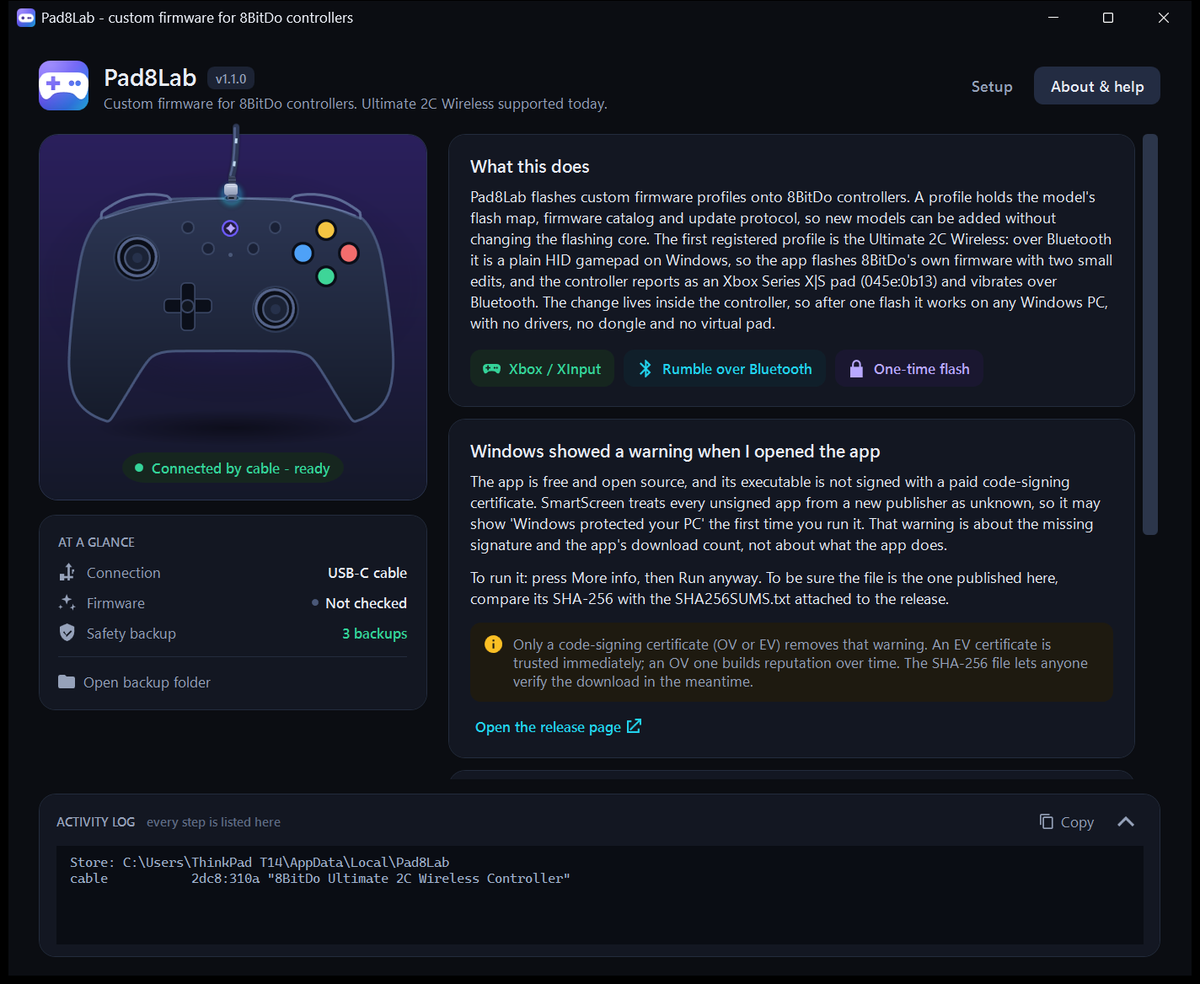
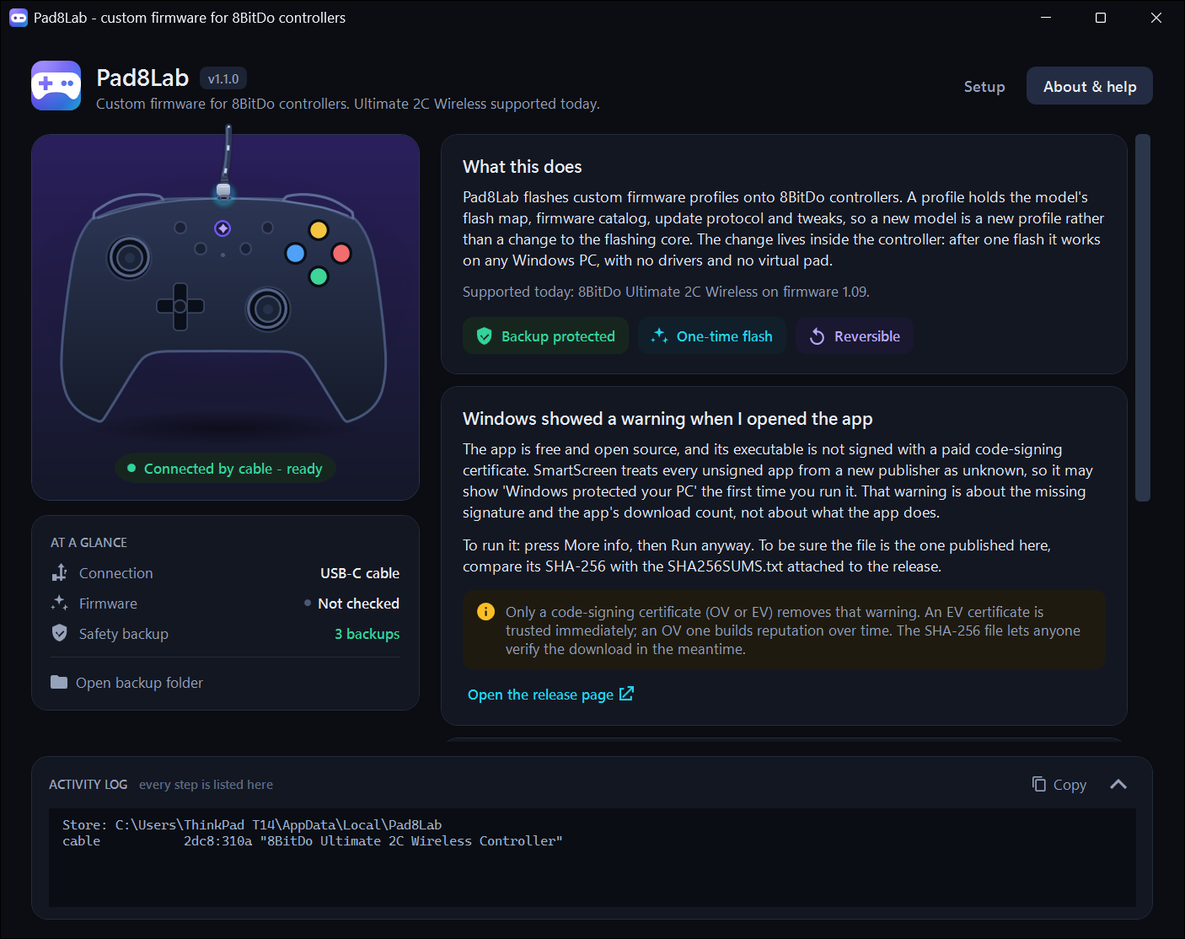
Make the app flow follow the registered profile

diff --git a/src/Pad8Lab/MainWindow.xaml b/src/Pad8Lab/MainWindow.xaml
@@ -44,8 +44,9 @@
                         <TextBlock x:Name="VersionText" Style="{StaticResource Caption}" Foreground="{StaticResource MutedBrush}" Text="1.0.1"/>
                     </Border>
                 </StackPanel>
-                <TextBlock Style="{StaticResource Muted}" Margin="0,1,0,0"
-                           Text="Custom firmware for 8BitDo controllers. Ultimate 2C Wireless supported today."/>
+                <TextBlock x:Name="SubtitleText" Style="{StaticResource Muted}" Margin="0,1,0,0"
+                           TextTrimming="CharacterEllipsis"
+                           Text="Custom firmware for 8BitDo controllers."/>
             </StackPanel>
 
             <StackPanel Grid.Column="2" Orientation="Horizontal" VerticalAlignment="Center">
@@ -380,7 +381,7 @@
                                     <StackPanel Grid.Column="1" Margin="12,1,12,0">
                                         <TextBlock Text="Connect the controller by USB-C" Style="{StaticResource H2}"/>
                                         <TextBlock Style="{StaticResource Muted}" Margin="0,3,0,0"
-                                                   Text="Flashing only works over the cable. Bluetooth and the 2.4 GHz dongle cannot flash."/>
+                                                   Text="Flashing only works over the cable. Wireless modes cannot flash."/>
                                     </StackPanel>
                                     <StackPanel Grid.Column="2" Orientation="Horizontal" VerticalAlignment="Center">
                                         <Border x:Name="ConnectionChip" Background="#1A2130" CornerRadius="8" Padding="9,4">
@@ -447,9 +448,9 @@
                                                    HorizontalAlignment="Center" VerticalAlignment="Center"/>
                                     </Border>
                                     <StackPanel Grid.Column="1" Margin="12,1,14,0">
-                                        <TextBlock Text="Install the Bluetooth tweaks" Style="{StaticResource H2}"/>
-                                        <TextBlock Style="{StaticResource Muted}" Margin="0,3,0,0"
-                                                   Text="Adds native Xbox identity and rumble over Bluetooth. Writes 819 bytes, then reads them back to verify."/>
+                                        <TextBlock Text="Install the tweaks" Style="{StaticResource H2}"/>
+                                        <TextBlock x:Name="InstallHelpText" Style="{StaticResource Muted}" Margin="0,3,0,0"
+                                                   Text="Writes only the firmware regions the tweaks change, then reads them back to verify."/>
                                     </StackPanel>
                                     <StackPanel Grid.Column="2" VerticalAlignment="Center">
                                         <Button x:Name="InstallButton" AutomationProperties.AutomationId="InstallButton" Style="{StaticResource PrimaryButton}" Width="186"
@@ -491,9 +492,9 @@
                                                    HorizontalAlignment="Center" VerticalAlignment="Center"/>
                                     </Border>
                                     <StackPanel Grid.Column="1" Margin="12,1,0,0">
-                                        <TextBlock Text="Pair it again over Bluetooth" Style="{StaticResource H2}"/>
-                                        <TextBlock Style="{StaticResource Muted}" Margin="0,3,0,0"
-                                                   Text="Unplug the cable. In Windows Settings, remove the controller and pair it again so Windows reads its new Xbox identity. Now games see a real Xbox pad and can make it vibrate."/>
+                                        <TextBlock Text="Reconnect the controller" Style="{StaticResource H2}"/>
+                                        <TextBlock x:Name="ReconnectHelpText" Style="{StaticResource Muted}" Margin="0,3,0,0"
+                                                   Text="Unplug the cable and connect the controller the way you normally use it. If Windows shows it as a new device, remove it in Settings and pair it again."/>
                                     </StackPanel>
                                 </Grid>
                             </Border>
@@ -512,7 +513,8 @@
                                     <StackPanel Grid.Column="1" Margin="11,0,10,0" VerticalAlignment="Center">
                                         <TextBlock Text="Changed your mind?" Style="{StaticResource Body}" FontSize="12.5" FontWeight="SemiBold"/>
                                         <TextBlock Style="{StaticResource Muted}" Margin="0,1,0,0" FontSize="12"
-                                                   Text="Restore puts back the backup that still holds the original firmware 1.09."/>
+                                                   x:Name="RestoreHelpText"
+                                                   Text="Restore puts back the backup that still holds the original firmware."/>
                                     </StackPanel>
                                     <Button x:Name="RestoreButton" AutomationProperties.AutomationId="RestoreButton" Grid.Column="2" Style="{StaticResource SecondaryButton}"
                                             Click="Restore_Click" VerticalAlignment="Center" Content="Restore"/>
@@ -534,30 +536,33 @@
                                 <StackPanel>
                                     <TextBlock Text="What this does" Style="{StaticResource H2}"/>
                                     <TextBlock Style="{StaticResource Body}" Margin="0,7,0,0"
-                                               Text="Pad8Lab flashes custom firmware profiles onto 8BitDo controllers. A profile holds the model's flash map, firmware catalog and update protocol, so new models can be added without changing the flashing core. The first registered profile is the Ultimate 2C Wireless: over Bluetooth it is a plain HID gamepad on Windows, so the app flashes 8BitDo's own firmware with two small edits, and the controller reports as an Xbox Series X|S pad (045e:0b13) and vibrates over Bluetooth. The change lives inside the controller, so after one flash it works on any Windows PC, with no drivers, no dongle and no virtual pad."/>
+                                               Text="Pad8Lab flashes custom firmware profiles onto 8BitDo controllers. A profile holds the model's flash map, firmware catalog, update protocol and tweaks, so a new model is a new profile rather than a change to the flashing core. The change lives inside the controller: after one flash it works on any Windows PC, with no drivers and no virtual pad."/>
+                                    <TextBlock x:Name="SupportedText" Style="{StaticResource Muted}" Margin="0,9,0,0"
+                                               TextWrapping="Wrap"
+                                               Text="Supported today:"/>
 
                                     <StackPanel Orientation="Horizontal" Margin="0,14,0,0">
                                         <Border Background="#16261F" CornerRadius="9" Padding="11,8" Margin="0,0,8,0">
                                             <StackPanel Orientation="Horizontal">
-                                                <Path Data="{StaticResource IconGamepad}" Width="15" Height="15" Stretch="Uniform"
+                                                <Path Data="{StaticResource IconShield}" Width="15" Height="15" Stretch="Uniform"
                                                       Fill="{StaticResource SuccessBrush}" VerticalAlignment="Center"/>
-                                                <TextBlock Text="Xbox / XInput" Margin="7,0,0,0" FontSize="12"
+                                                <TextBlock Text="Backup protected" Margin="7,0,0,0" FontSize="12"
                                                            Foreground="{StaticResource SuccessBrush}" FontWeight="SemiBold"/>
                                             </StackPanel>
                                         </Border>
                                         <Border Background="#101F2A" CornerRadius="9" Padding="11,8" Margin="0,0,8,0">
                                             <StackPanel Orientation="Horizontal">
-                                                <Path Data="{StaticResource IconBluetooth}" Width="15" Height="15" Stretch="Uniform"
+                                                <Path Data="{StaticResource IconSpark}" Width="15" Height="15" Stretch="Uniform"
                                                       Fill="{StaticResource Accent2Brush}" VerticalAlignment="Center"/>
-                                                <TextBlock Text="Rumble over Bluetooth" Margin="7,0,0,0" FontSize="12"
+                                                <TextBlock Text="One-time flash" Margin="7,0,0,0" FontSize="12"
                                                            Foreground="{StaticResource Accent2Brush}" FontWeight="SemiBold"/>
                                             </StackPanel>
                                         </Border>
                                         <Border Background="#1A1730" CornerRadius="9" Padding="11,8">
                                             <StackPanel Orientation="Horizontal">
-                                                <Path Data="{StaticResource IconLock}" Width="15" Height="15" Stretch="Uniform"
+                                                <Path Data="{StaticResource IconUndo}" Width="15" Height="15" Stretch="Uniform"
                                                       Fill="#B8A8FF" VerticalAlignment="Center"/>
-                                                <TextBlock Text="One-time flash" Margin="7,0,0,0" FontSize="12"
+                                                <TextBlock Text="Reversible" Margin="7,0,0,0" FontSize="12"
                                                            Foreground="#B8A8FF" FontWeight="SemiBold"/>
                                             </StackPanel>
                                         </Border>

diff --git a/src/Pad8Lab/Theme.xaml b/src/Pad8Lab/Theme.xaml
@@ -57,7 +57,6 @@
     <Geometry x:Key="IconCheck">M9.5 16.2 5.3 12l-1.4 1.4 5.6 5.6L20.1 8.4 18.7 7z</Geometry>
     <Geometry x:Key="IconWarning">M1 21h22L12 2 1 21zm12-3h-2v-2h2v2zm0-4h-2v-4h2v4z</Geometry>
     <Geometry x:Key="IconInfo">M12 2a10 10 0 1 0 0 20 10 10 0 0 0 0-20zm1 15h-2v-6h2v6zm0-8h-2V7h2v2z</Geometry>
-    <Geometry x:Key="IconBluetooth">M17.7 7.7 12 2h-1v7.6L6.4 5 5 6.4 10.6 12 5 17.6 6.4 19 11 14.4V22h1l5.7-5.7-4.3-4.3 4.3-4.3zM13 5.8l1.9 1.9L13 9.6V5.8zm1.9 10.5L13 18.2v-3.8l1.9 1.9z</Geometry>
     <Geometry x:Key="IconBackup">M11 3h2v10.2l3.6-3.6 1.4 1.4-6 6-6-6 1.4-1.4L11 13.2V3zM4 19h16v2H4z</Geometry>
     <Geometry x:Key="IconSpark">M12 2l1.6 4.4L18 8l-4.4 1.6L12 14l-1.6-4.4L6 8l4.4-1.6L12 2zm7 11 .9 2.6 2.6.9-2.6.9L19 21l-.9-2.6-2.6-.9 2.6-.9L19 13zM5 14l.7 2 2 .7-2 .7L5 19.5l-.7-2.1-2-.7 2-.7L5 14z</Geometry>
     <Geometry x:Key="IconUndo">M12 5V1L7 6l5 5V7a6 6 0 1 1-6 6H4a8 8 0 1 0 8-8z</Geometry>
@@ -68,8 +67,6 @@
     <Geometry x:Key="IconFolder">M10 4H4a2 2 0 0 0-2 2v12a2 2 0 0 0 2 2h16a2 2 0 0 0 2-2V8a2 2 0 0 0-2-2h-8l-2-2z</Geometry>
     <Geometry x:Key="IconChevron">M7 9l5 5 5-5 1.4 1.4L12 16.8 5.6 10.4z</Geometry>
     <Geometry x:Key="IconGamepad">F0 M6.6,7.2 L17.4,7.2 C19.56,7.2 21,8.76 21.12,10.68 C21.24,12.84 20.76,15 19.8,16.32 C19.08,17.28 17.88,17.28 17.04,16.44 L15.84,15.24 C14.76,14.16 9.24,14.16 8.16,15.24 L6.96,16.44 C6.12,17.28 4.92,17.28 4.2,16.32 C3.24,15 2.76,12.84 2.88,10.68 C3,8.76 4.44,7.2 6.6,7.2 Z M7.44,8.64 L8.88,8.64 L8.88,10.44 L10.68,10.44 L10.68,11.88 L8.88,11.88 L8.88,13.68 L7.44,13.68 L7.44,11.88 L5.64,11.88 L5.64,10.44 L7.44,10.44 Z M13.85,11.16 A1.03,1.03 0 1 0 15.91,11.16 A1.03,1.03 0 1 0 13.85,11.16 Z M16.25,11.16 A1.03,1.03 0 1 0 18.31,11.16 A1.03,1.03 0 1 0 16.25,11.16 Z</Geometry>
-    <Geometry x:Key="IconLock">M12 2a5 5 0 0 0-5 5v3H5v12h14V10h-2V7a5 5 0 0 0-5-5zm0 2a3 3 0 0 1 3 3v3H9V7a3 3 0 0 1 3-3z</Geometry>
-    <Geometry x:Key="IconDot">M12 8a4 4 0 1 0 0 8 4 4 0 0 0 0-8z</Geometry>
 
     <!-- text -->
     <Style x:Key="H1" TargetType="TextBlock">

diff --git a/src/Pad8Lab/MainWindow.xaml.cs b/src/Pad8Lab/MainWindow.xaml.cs
@@ -30,6 +30,8 @@ public partial class MainWindow : Window
     private IReadOnlyList<string> _modes = Array.Empty<string>();
     private string _deviceSignature = string.Empty;
     private bool _planChanges;
+    private int _planDiffBytes;
+    private ControllerProfile _profile = ProfileRegistry.Default.Profiles[0];
 
     private enum StatusKind
     {
@@ -44,6 +46,13 @@ public partial class MainWindow : Window
     {
         InitializeComponent();
         VersionText.Text = "v" + (Assembly.GetExecutingAssembly().GetName().Version?.ToString(3) ?? "1.0.0");
+
+        // the header and the About tab list whatever the registry supports today
+        var profiles = ProfileRegistry.Default.Profiles;
+        SubtitleText.Text = $"Custom firmware for 8BitDo controllers. {Plan.Listed(profiles.Select(p => p.ShortName))} supported today.";
+        SupportedText.Text = "Supported today: " + string.Join("; ",
+            profiles.Select(p => $"{p.Name} on firmware {p.SupportedVersions}."));
+        ApplyProfileText(_profile);
 
         // keeps the window inside the screen on small displays or high scaling
         var work = SystemParameters.WorkArea;
@@ -88,11 +97,7 @@ public partial class MainWindow : Window
         SetStatus("Looking for the controller...", StatusKind.Busy);
         try
         {
-            var (lines, modes) = await Task.Run(() =>
-            {
-                var found = _service.Find();
-                return (_service.DescribeDevices(), (IReadOnlyList<string>)found.Select(f => f.Mode).ToList());
-            });
+            var (found, lines) = await Task.Run(() => (_service.Find(), _service.DescribeDevices()));
 
             // only logs the device list when it changes, so repeated refreshes stay quiet
             var signature = string.Join("\n", lines);
@@ -103,8 +108,9 @@ public partial class MainWindow : Window
                     Log(line);
             }
 
-            _modes = modes;
-            ApplyDeviceState(modes);
+            _modes = found.Select(f => f.Mode).ToList();
+            UseProfile(found.Select(f => f.Profile).FirstOrDefault());
+            ApplyDeviceState(_modes);
         }
         catch (Exception ex)
         {
@@ -126,7 +132,9 @@ public partial class MainWindow : Window
         _probing = true;
         try
         {
-            var modes = await Task.Run(() => _service.Find().Select(f => f.Mode).ToList());
+            var found = await Task.Run(() => _service.Find());
+            var modes = found.Select(f => f.Mode).ToList();
+            UseProfile(found.Select(f => f.Profile).FirstOrDefault());
             if (SameModes(modes, _modes))
                 return;
 
@@ -156,6 +164,30 @@ public partial class MainWindow : Window
     private static bool SameModes(IReadOnlyList<string> a, IReadOnlyList<string> b) =>
         a.Count == b.Count && a.OrderBy(m => m).SequenceEqual(b.OrderBy(m => m));
 
+    // follows the model that is connected, or the first registered one when nothing is
+    private void UseProfile(ControllerProfile? profile)
+    {
+        profile ??= ProfileRegistry.Default.Profiles[0];
+        if (ReferenceEquals(profile, _profile))
+            return;
+        _profile = profile;
+        ApplyProfileText(profile);
+    }
+
+    // the flow names the model's own tweaks and firmware version
+    private void ApplyProfileText(ControllerProfile profile)
+    {
+        var titles = profile.SuggestedTweaks
+            .Where(key => profile.Primary.Catalog.All.ContainsKey(key))
+            .Select(key => profile.Primary.Catalog.All[key].Title)
+            .ToList();
+        InstallHelpText.Text = titles.Count == 0
+            ? "Writes only the firmware regions the tweaks change, then reads them back to verify."
+            : $"Adds {Plan.Listed(titles)}. Writes only those regions, then verifies them.";
+        RestoreHelpText.Text =
+            $"Restore puts back the backup that still holds the original firmware {profile.Primary.Version:0.00}.";
+    }
+
     // maps the device modes onto the status pill, the connection row and the buttons
     private void ApplyDeviceState(IReadOnlyList<string> modes)
     {
@@ -182,19 +214,19 @@ public partial class MainWindow : Window
         }
         else if (bluetooth)
         {
-            SetStatus("Bluetooth - connect the cable to flash", StatusKind.Info);
-            ConnectionChipText.Text = "Bluetooth";
+            SetStatus("Wireless - connect the cable to flash", StatusKind.Info);
+            ConnectionChipText.Text = "Wireless";
             ConnectionChipText.Foreground = Brush("Accent2Brush");
             ConnectionChip.Background = Solid("#11222B");
-            ConnectionText.Text = "Bluetooth";
+            ConnectionText.Text = "Wireless";
         }
         else if (dongle)
         {
-            SetStatus("Only the dongle is connected", StatusKind.Warn);
-            ConnectionChipText.Text = "Dongle only";
+            SetStatus("Only the wireless adapter is connected", StatusKind.Warn);
+            ConnectionChipText.Text = "Adapter only";
             ConnectionChipText.Foreground = Brush("WarnBrush");
             ConnectionChip.Background = Solid("#2A2113");
-            ConnectionText.Text = "2.4 GHz dongle";
+            ConnectionText.Text = "Wireless adapter";
         }
         else
         {
@@ -321,8 +353,10 @@ public partial class MainWindow : Window
     {
         var installed = !plan.BankA && plan.OtherSectors.Count == 0;
         _planChanges = !installed;
+        _planDiffBytes = plan.DiffBytes;
         Dispatcher.BeginInvoke(
-            () => SetFirmware(installed ? "Rumble + Xbox" : "Original 1.09", installed ? StatusKind.Ok : StatusKind.Muted));
+            () => SetFirmware(installed ? "Tweaked" : $"Original {_profile.Primary.Version:0.00}",
+                installed ? StatusKind.Ok : StatusKind.Muted));
     }
 
     private void SetFirmware(string text, StatusKind kind)
@@ -427,7 +461,7 @@ public partial class MainWindow : Window
             return;
 
         if (await RunAsync("backup", () => _service.Backup(Log, ShowProgress)))
-            ShowResult(true, "Backup saved. It holds your unit's bootloader check, calibration and Bluetooth keys.");
+            ShowResult(true, "Backup saved. It holds your unit's bootloader check, calibration and pairing data.");
     }
 
     private async void Check_Click(object sender, RoutedEventArgs e)
@@ -439,14 +473,14 @@ public partial class MainWindow : Window
             return;
 
         ShowResult(true, _planChanges
-            ? "The tweaks are not installed yet. Installing them changes 819 bytes of the firmware."
+            ? $"The tweaks are not installed yet. Installing them writes {Plan.Count(_planDiffBytes, "byte")} of the firmware."
             : "The tweaks are already installed. There is nothing to write.");
     }
 
     private async void Install_Click(object sender, RoutedEventArgs e)
     {
-        if (!ConfirmWindow.Ask(this, "Install the Bluetooth tweaks?",
-                "This writes 819 bytes to the controller's firmware, reads them back to verify, and restarts the controller. " +
+        if (!ConfirmWindow.Ask(this, "Install the tweaks?",
+                "This writes only the firmware regions the tweaks change, reads them back to verify and restarts the controller. " +
                 "Make sure the USB-C cable is connected and that you have a backup.",
                 "Install"))
             return;
@@ -458,16 +492,16 @@ public partial class MainWindow : Window
         if (!ok)
             return;
 
-        SetFirmware("Rumble + Xbox", StatusKind.Ok);
+        SetFirmware("Tweaked", StatusKind.Ok);
         ShowResult(true, _planChanges
-            ? "Installed and verified. Unplug the cable, then remove and pair the controller again in Windows Bluetooth settings."
+            ? "Installed and verified. Unplug the cable and reconnect the controller; if Windows shows it as a new device, remove it in Settings and pair it again."
             : "The tweaks were already installed, so nothing was written.");
     }
 
     private async void Restore_Click(object sender, RoutedEventArgs e)
     {
         if (!ConfirmWindow.Ask(this, "Restore the original firmware?",
-                "This writes the original firmware 1.09 from your backup back to the controller, verifies it and undoes the tweaks.",
+                $"This writes the original firmware {_profile.Primary.Version:0.00} from your backup back to the controller, verifies it and undoes the tweaks.",
                 "Restore"))
             return;
 
@@ -478,9 +512,9 @@ public partial class MainWindow : Window
         if (!ok)
             return;
 
-        SetFirmware("Original 1.09", StatusKind.Muted);
+        SetFirmware($"Original {_profile.Primary.Version:0.00}", StatusKind.Muted);
         ShowResult(true, _planChanges
-            ? "Original firmware restored and verified. If Bluetooth changed, remove and pair the controller again."
+            ? "Original firmware restored and verified. Reconnect the controller; if Windows still shows its old identity, remove it in Settings and pair it again."
             : "The controller already has the original firmware, so nothing was written.");
     }
 

diff --git a/src/Pad8Lab.Core/Profiles/ControllerProfile.cs b/src/Pad8Lab.Core/Profiles/ControllerProfile.cs
@@ -11,6 +11,7 @@ public sealed class ControllerProfile
     public ControllerProfile(
         string id,
         string name,
+        string shortName,
         string vendor,
         string disclaimer,
         string bootHelp,
@@ -25,6 +26,8 @@ public sealed class ControllerProfile
             throw new ArgumentException("A profile needs an id.", nameof(id));
         if (string.IsNullOrWhiteSpace(name))
             throw new ArgumentException("A profile needs a name.", nameof(name));
+        if (string.IsNullOrWhiteSpace(shortName))
+            throw new ArgumentException("A profile needs a short name.", nameof(shortName));
         if (string.IsNullOrWhiteSpace(vendor))
             throw new ArgumentException("A profile needs a vendor.", nameof(vendor));
         if (modes.Count == 0)
@@ -35,6 +38,7 @@ public sealed class ControllerProfile
 
         Id = id;
         Name = name;
+        ShortName = shortName;
         Vendor = vendor;
         Disclaimer = disclaimer;
         BootHelp = bootHelp;
@@ -48,6 +52,9 @@ public sealed class ControllerProfile
 
     public string Id { get; }
     public string Name { get; }
+
+    /// <summary>The model name without the vendor, for compact labels.</summary>
+    public string ShortName { get; }
 
     /// <summary>Who makes the controller, used in the restore wording.</summary>
     public string Vendor { get; }

diff --git a/src/Pad8Lab.Core/Profiles/TemplateProfile.cs b/src/Pad8Lab.Core/Profiles/TemplateProfile.cs
@@ -35,6 +35,7 @@ public static class TemplateProfile
         return new ControllerProfile(
             id: "vendor-model",
             name: "Example controller (template, not registered)",
+            shortName: "Example controller",
             vendor: "Your vendor",
             disclaimer: "Replace this with which model and firmware versions the app supports.",
             bootHelp: "Replace this with how to put the model into update mode.",

diff --git a/src/Pad8Lab.Core/Profiles/U2cWireless.cs b/src/Pad8Lab.Core/Profiles/U2cWireless.cs
@@ -31,6 +31,7 @@ public static class U2cWireless
     public static readonly ControllerProfile Profile = new(
         Id,
         "8BitDo Ultimate 2C Wireless",
+        "Ultimate 2C Wireless",
         "8BitDo",
         "It only works with the Ultimate 2C on firmware 1.09.",
         "Turn the controller fully off, then hold LB + RB while plugging in the cable. The small light below the Home ring will blink white.",

diff --git a/tests/Pad8Lab.Core.Tests/ControllerProfileTests.cs b/tests/Pad8Lab.Core.Tests/ControllerProfileTests.cs
@@ -13,6 +13,7 @@ public sealed class ControllerProfileTests
     {
         Assert.Equal("8bitdo-u2c-wireless", U2c.Id);
         Assert.Equal("8BitDo Ultimate 2C Wireless", U2c.Name);
+        Assert.Equal("Ultimate 2C Wireless", U2c.ShortName);
         Assert.Equal("8BitDo", U2c.Vendor);
     }
 

diff --git a/README.md b/README.md
@@ -12,7 +12,7 @@ Support is profile-based: **only the Ultimate 2C Wireless is registered today**,
 
 ## Screenshots
 
-<img src="docs/screenshots/setup.png" alt="The guided setup: connect the cable, back up, install the tweaks and pair again" width="860">
+<img src="docs/screenshots/setup.png" alt="The guided setup: connect the cable, back up, install the tweaks and reconnect" width="860">
 
 <img src="docs/screenshots/about.png" alt="What the app does, the controller state and what to do with the SmartScreen warning" width="860">
 
@@ -42,8 +42,8 @@ The tweaks are small edits to the firmware that runs **inside the controller**. 
 
 1. **Back up.** Connect the controller **by cable** and press *Back up controller*. The backup is the safety net: it contains your unit's bootloader check, calibration and Bluetooth keys, and the app refuses to write anything without one.
 2. **Check.** Press *Check (no write)* to see what would change.
-3. **Install the tweaks.** Tick the disclaimer box and press *Install Bluetooth rumble*. The app puts the controller into update mode, writes the changes, verifies them and restarts it.
-4. **Pair again.** Remove the controller in **Settings → Bluetooth & devices** and pair it again, so Windows re-reads the new description.
+3. **Install the tweaks.** Tick the disclaimer box and press *Install*. The app puts the controller into update mode, writes the changes, verifies them and restarts it.
+4. **Reconnect.** Unplug the cable. Remove the controller in **Settings → Bluetooth & devices** and pair it again, so Windows re-reads the new description.
 5. **Play.** Turn the controller on over Bluetooth. Windows shows it as an Xbox controller and games can make it vibrate.
 
 To go back, **restore your backup** the same way. The app puts back the newest backup that still holds the original firmware, so restoring also undoes the tweaks.

diff --git a/src/Pad8Lab.Core/Profiles/README.md b/src/Pad8Lab.Core/Profiles/README.md
@@ -49,4 +49,4 @@ A **profile** describes one controller family. The generic core (device discover
 
 `SuggestedTweaks` is what the app offers for the model. `ImplicitTweaks` is added to every install when the user chooses at least one tweak (the U2C adds `ble_interval`). Both are plain recipe keys; a template can leave them empty.
 
-The vendor, disclaimer and update-mode instructions are part of the profile so the core does not hardcode a manufacturer or a physical button combination in user-facing messages.
+The vendor, short name, disclaimer and update-mode instructions are part of the profile so the core does not hardcode a manufacturer or a physical button combination in user-facing messages.
